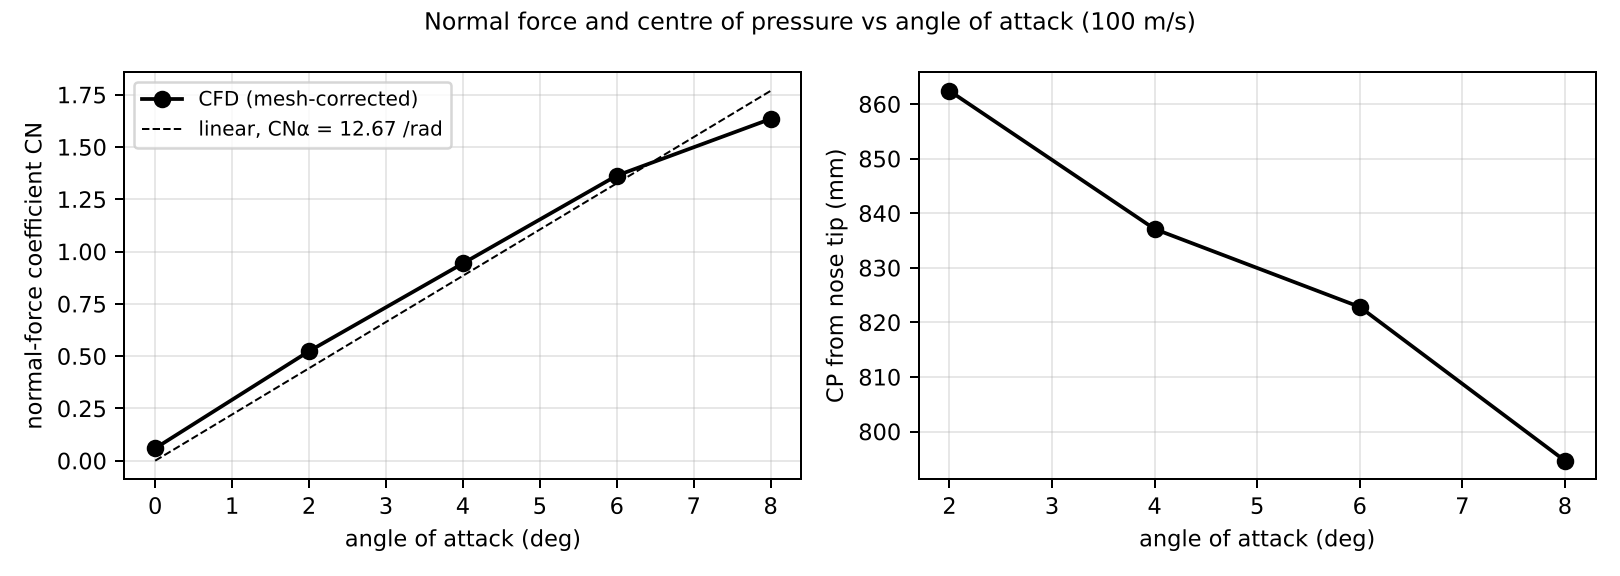
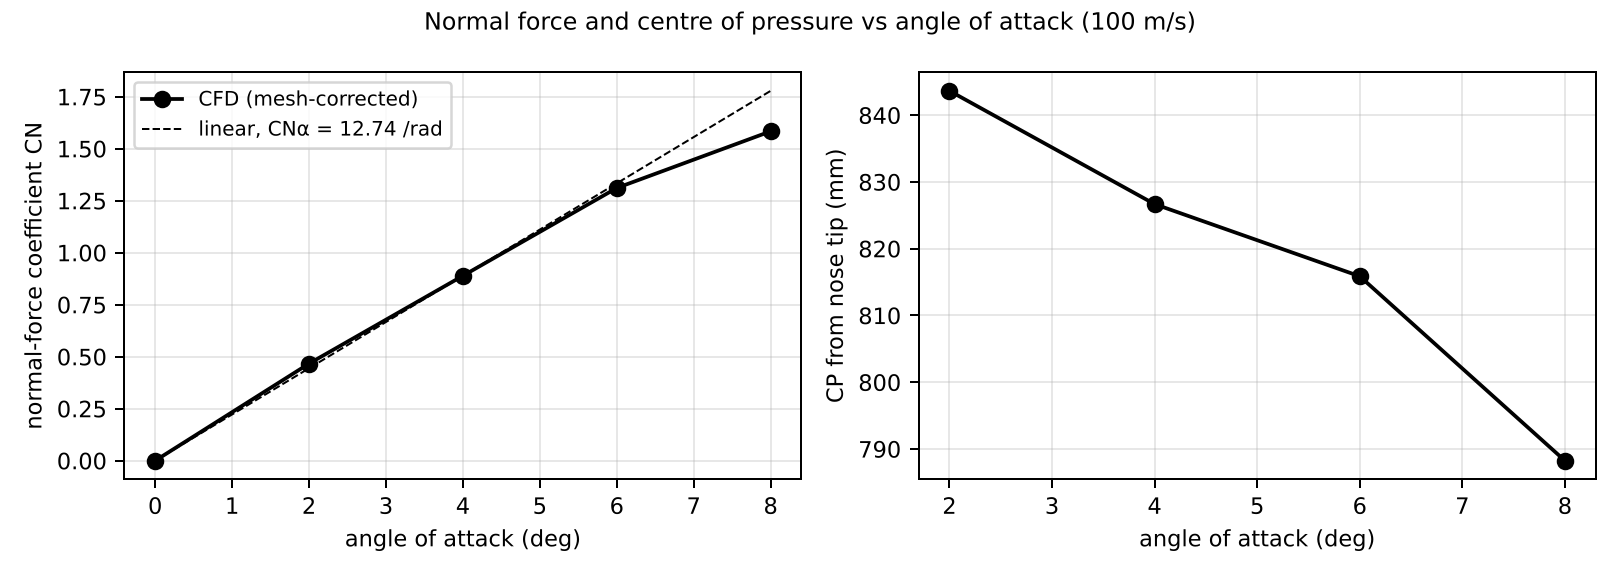
Aero builder: zero-incidence offset correction (coarse and refined), interim database
Claude-Session: https://claude.ai/code/session_01JbHocCdFPmDsRrA6bRt32a

diff --git a/tools/msp_aero.py b/tools/msp_aero.py
@@ -40,6 +40,20 @@ def res(name):
     return json.load(open(f)) if f.exists() else None
 
 
+def offset_correct(r, r0):
+    """Remove the zero-incidence force offset (numerical: a 3-fin rocket has CN = 0 at alpha = 0 by symmetry).
+    CN' = CN - CN0;  CP' = (CN*CP - CN0*CP0) / CN'."""
+    if not r0:
+        return dict(r)
+    cn0, mc0 = r0["CN"], r0["CN"] * r0["CP_from_tip_mm"]
+    out = dict(r)
+    cn = r["CN"] - cn0
+    out["CN"] = cn
+    out["CP_from_tip_mm"] = (r["CN"] * r["CP_from_tip_mm"] - mc0) / cn
+    out["CN_alpha_per_rad"] = r["CN_alpha_per_rad"] * cn / r["CN"]
+    return out
+
+
 def split_areas_and_base(name):
     """Wetted area split (printed vs tube) and base axial coefficient from the surface VTK."""
     case = ROOT / f"out/cfd/of_{name}"
@@ -69,9 +83,21 @@ def main():
     FIG.mkdir(parents=True, exist_ok=True)
     plt.rcParams.update({"font.family": "DejaVu Sans", "font.size": 9})
     R = {n: res(n) for n in ("msp_a0", "msp_a2", "msp_a4", "msp_a6", "msp_a8", "msp_a4_f", "msp_m05", "msp_m08")}
-    have = {k: v["final"] for k, v in R.items() if v}
-    print("cases:", sorted(have))
-    out = {"cases": {k: {kk: v[kk] for kk in ("CN", "CN_alpha_per_rad", "CP_from_tip_mm", "CA_pressure")} for k, v in have.items()}}
+    raw = {k: v["final"] for k, v in R.items() if v}
+    r0c = raw.get("msp_a0")
+    f0 = res("msp_a0_f")
+    r0f = f0["final"] if f0 else r0c          # refined-mesh offset; falls back to the coarse offset
+    have = {}
+    for k, v in raw.items():
+        if k in ("msp_a0",):
+            have[k] = v
+        else:
+            have[k] = offset_correct(v, r0f if k.endswith("_f") else r0c)
+    print("cases:", sorted(have), "| refined offset from", "msp_a0_f" if f0 else "coarse msp_a0 (fallback)")
+    out = {"cases": {k: {kk: v[kk] for kk in ("CN", "CN_alpha_per_rad", "CP_from_tip_mm", "CA_pressure")} for k, v in have.items()},
+           "raw": {k: {kk: v[kk] for kk in ("CN", "CN_alpha_per_rad", "CP_from_tip_mm", "CA_pressure")} for k, v in raw.items()},
+           "offset": {"coarse": {"CN0": r0c["CN"], "CP0": r0c["CP_from_tip_mm"]} if r0c else None,
+                      "refined_source": "msp_a0_f" if f0 else "msp_a0 (fallback)"}}
     # ---- mesh study
     c4, f4 = have.get("msp_a4"), have.get("msp_a4_f")
     corr = {"CN": 1.0, "CP_mm": 0.0, "CA_p": 1.0}
@@ -98,7 +124,7 @@ def main():
     for a_deg in (0, 2, 4, 6, 8):
         r = have.get(f"msp_a{a_deg}")
         if r:
-            al.append(a_deg); cn.append(r["CN"] * corr["CN"])
+            al.append(a_deg); cn.append(0.0 if a_deg == 0 else r["CN"] * corr["CN"])
             cp.append(r["CP_from_tip_mm"] + corr["CP_mm"] if a_deg > 0 else np.nan)
     if len(al) >= 3:
         al_a, cn_a = np.array(al, float), np.array(cn)
